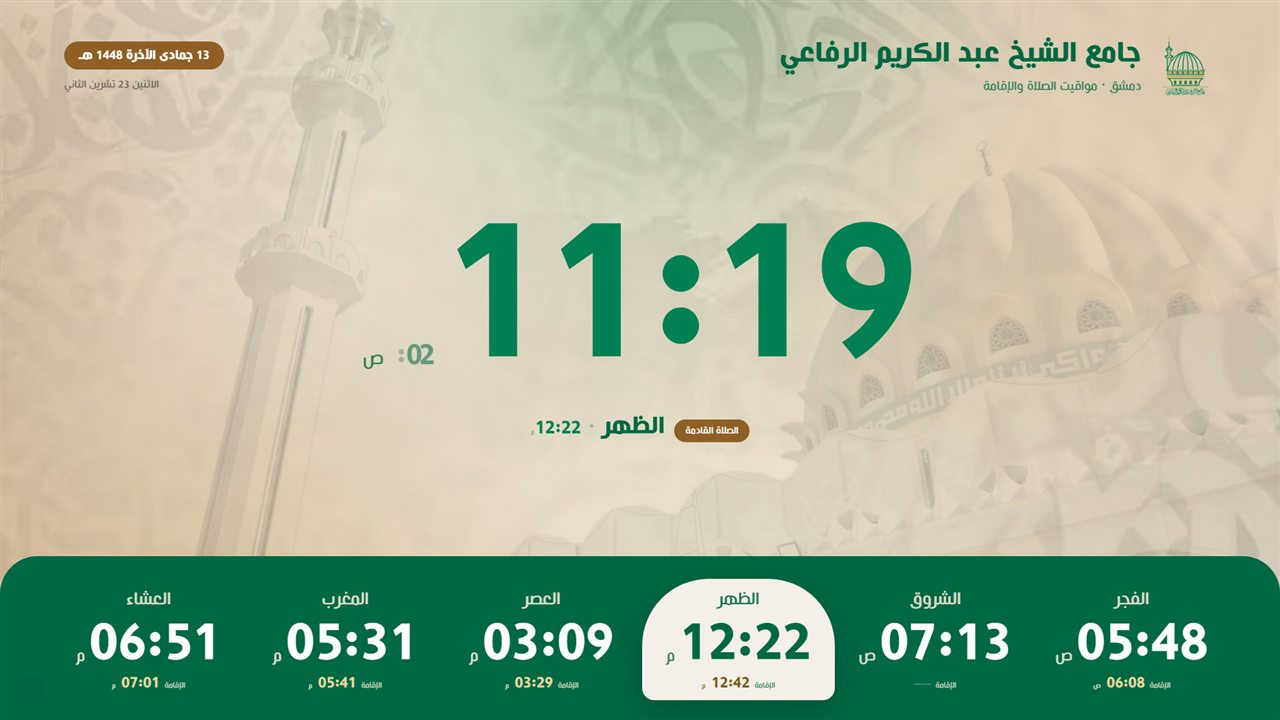
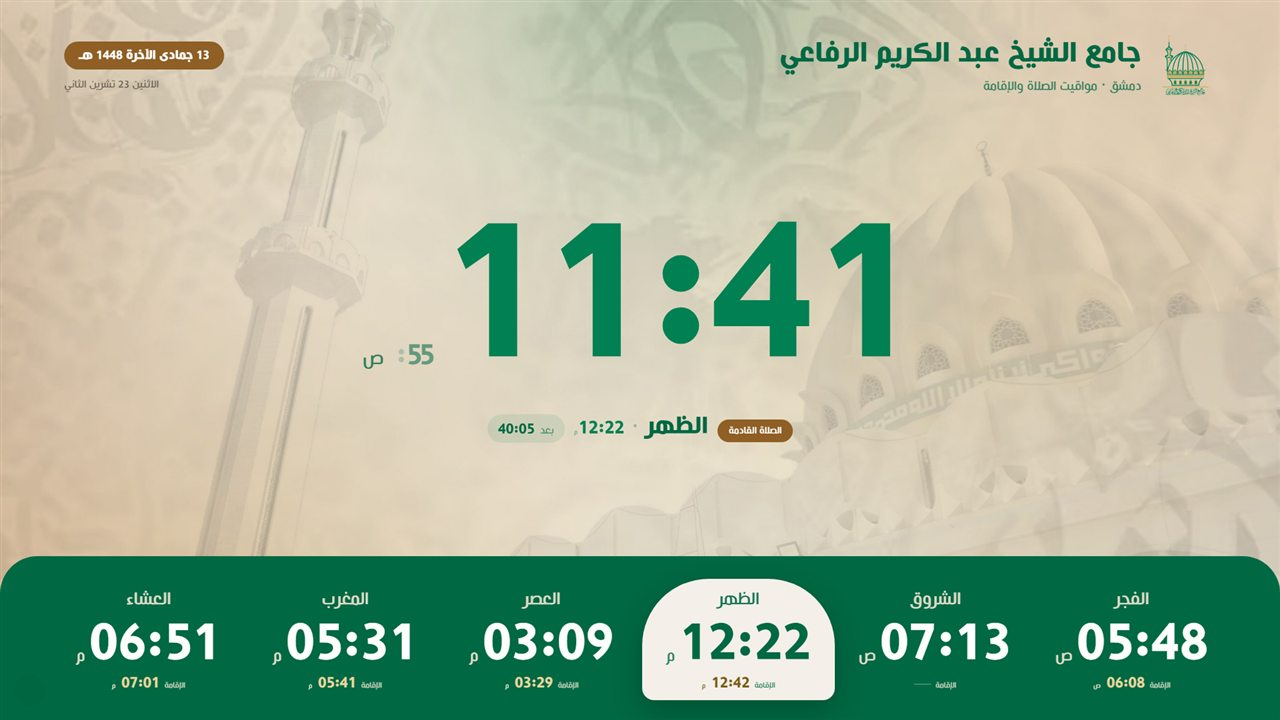
Use the provided mosque background and refresh previews

Changed region(s): [[0.5312, 0.3056, 0.7188, 0.5194], [0.375, 0.5806, 0.625, 0.6417], [0.3125, 0.4583, 0.3438, 0.5194]]

diff --git a/assets/css/app.css b/assets/css/app.css
@@ -36,7 +36,7 @@ body {
 .ground__img {
   position: absolute;
   inset: -1%;
-  background: url('../img/bg-haze-1920.jpg') 50% 44% / cover no-repeat;
+  background: url('../img/bg-refa3i.jpg') 50% 44% / cover no-repeat;
   animation: groundDrift 90s ease-in-out infinite alternate;
 }
 
@@ -627,7 +627,7 @@ body {
 .veil__wash {
   position: absolute;
   inset: -10%;
-  background: url('../img/bg-haze-1920.jpg') 50% 40% / cover no-repeat;
+  background: url('../img/bg-refa3i.jpg') 50% 40% / cover no-repeat;
   filter: blur(calc(var(--u) * 28)) saturate(.75) brightness(.55);
   opacity: .42;
 }

diff --git a/README.md b/README.md
@@ -102,6 +102,7 @@ node server.mjs 3000     # منفذ آخر
 | `assets/js/data.js` | أوقات السنة (٣٦٦ يوماً) مضمّنة |
 | `assets/fonts/` | خطّا Hacen Algeria وHD محلياً (TTF) |
 | `assets/img/` | الشعارات، خلفية ضباب الجامع، وأيقونة الموقع |
+| `assets/images/refa3i default bg.png` | ملف الخلفية الأصلي كما ورد من الجامع؛ المستخدم في الشاشة هو `assets/img/bg-refa3i.jpg` |
 | `assets/ads/` | مجلد الإعلانات و`manifest.json` وملاحظاته |
 | `docs/` | لقطتا الشاشة الأساسية وشاشة الإعلان المستخدمتان في هذا الملف |
 | `server.mjs` | خادم محلي ثابت لملفات المشروع |
